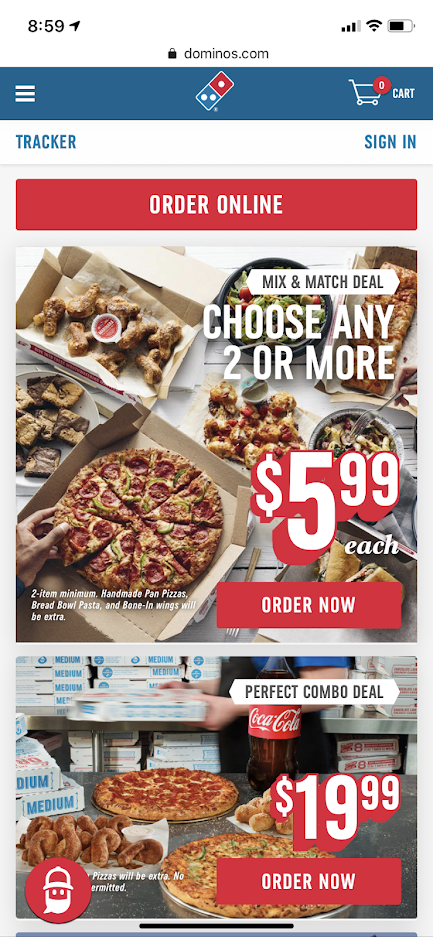
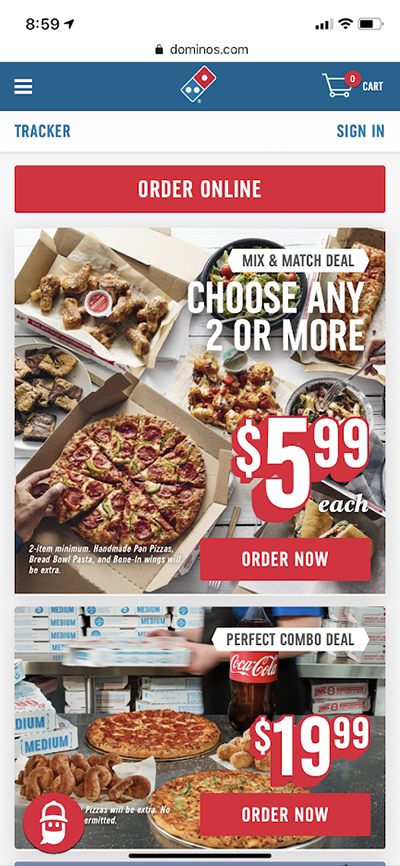
Update1

diff --git a/lesson2/design-principles.html b/lesson2/design-principles.html
@@ -10,21 +10,27 @@
 </head>
 
 <body>
-    <h1>Three Mobile Websites Using Good Design Principles</h1>
-    <h2>1. <a href="https://www.mollymoon.com/">Molly Moon's</a></h2>
-    <p>Molly Moon's website is a good example of using white space and clean design. </p>
-    <img src="images/mollymoon1.png" alt="Molly Moon's Home Website">
-    <img src="images/mollymoon2.png" alt="Molly Moon's Home Website a little bit lower">
+    <nav><a href="../index.html">Home</a></nav>
+    <main>
+        <h1>Three Mobile Websites Using Good Design Principles</h1>
+        <h2>1. <a href="https://www.mollymoon.com/">Molly Moon's</a></h2>
+        <p>Molly Moon's website is a good example of using white space and clean design. Its sans-serif font combined with minimum words and lots of white space makes it easy to find what you're looking for without excessive clutter.
+        </p>
+        <img src="images/mollymoon1.png" alt="Molly Moon's Home Website">
+        <img src="images/mollymoon2.png" alt="Molly Moon's Home Website a little bit lower">
 
-    <h2><a href="https://www.dominos.com/en/">Domino's</a></h2>
-    <p>Domino's website is a good example of alignment.</p>
-    <img src="images/dominos1.png" alt="Domino's Home Website">
-    <img src="images/dominos2.png" alt="Domino's Home Website Alignment">
+        <h2>2. <a href="https://www.dominos.com/en/">Domino's</a></h2>
+        <p>Domino's website is a good example of alignment. Everything on the page is aligned close to the edges. If it weren't so aligned, it would look messy, but all the text, images, and link blocks are lined up to give it a cohesive look.
+        </p>
+        <img src="images/dominos1.png" alt="Domino's Home Website">
+        <img src="images/dominos2.png" alt="Domino's Home Website Alignment">
 
-    <h2><a href="https://www.shutterfly.com/?esch=1">Shutterfly</a></h2>
-    <p>Shutterfly's website is a good example of contrast.</p>
-    <img src="images/shutterfly1.png" alt="Shutterfly's Home Website">
-    <img src="images/shutterfly2.png" alt="Shutterfly's Home Website Contrast">
+        <h2>3. <a href="https://www.shutterfly.com/?esch=1">Shutterfly</a></h2>
+        <p>Shutterfly's website is a good example of contrast.</p>
+        <img src="images/shutterfly1.png" alt="Shutterfly's Home Website">
+        <img src="images/shutterfly2.png" alt="Shutterfly's Home Website Contrast">
+    </main>
+
 </body>
 
 </html>

diff --git a/lesson2/css/style.css b/lesson2/css/style.css
@@ -1,15 +1,29 @@
-@import url('https://fonts.googleapis.com/css?family=Montserrat');
+@import url('https://fonts.googleapis.com/css?family=Baskervville|Montserrat&display=swap');
 body {
     margin: 0 auto;
     max-width: 960px;
     font-family: 'Montserrat', sans-serif;
     font-size: 1.2rem;
+    background-color: #F5ECE6;
+}
+
+nav {
+    border-bottom: 1px solid #00000029;
+    padding: 1em;
+    background-color: white;
+}
+
+main {
+    background-color: white;
+    margin: 0;
+    padding: 0 2em;
 }
 
 h1 {
     text-align: center;
     color: #73729C;
-    margin: 2.2em;
+    margin: 0 2.2em;
+    padding: 1em;
 }
 
 h2,
@@ -19,4 +33,10 @@ p {
 
 a {
     color: #4B8C8E;
+}
+
+img {
+    box-shadow: rgb(0, 0, 0) 0px 0px 14px;
+    border-radius: 20px;
+    width
 }
